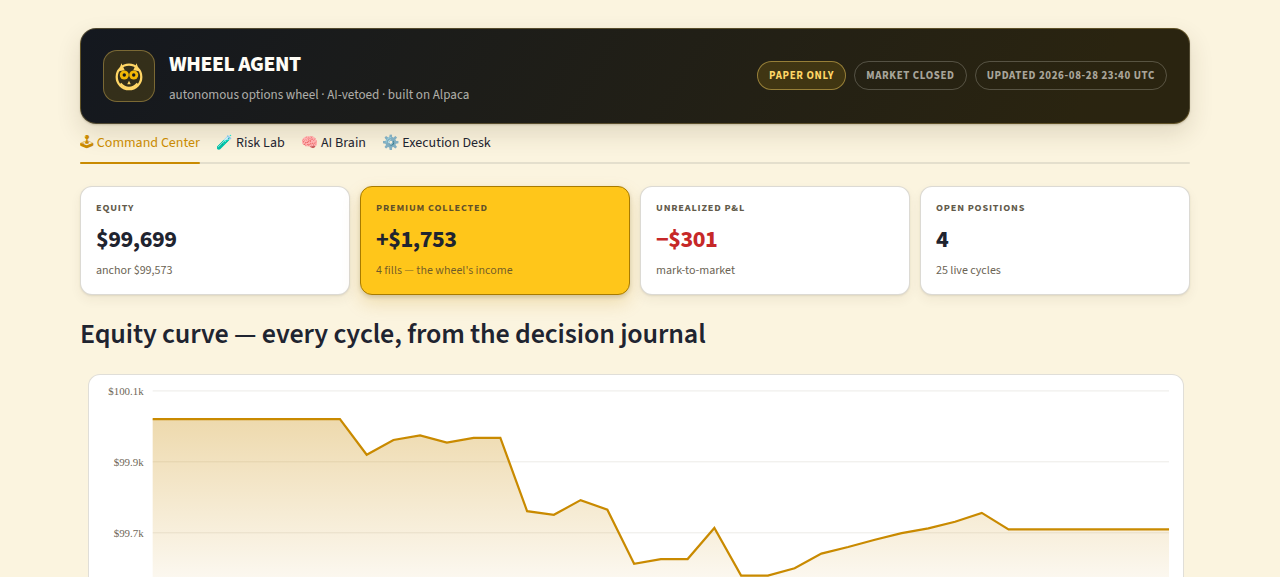
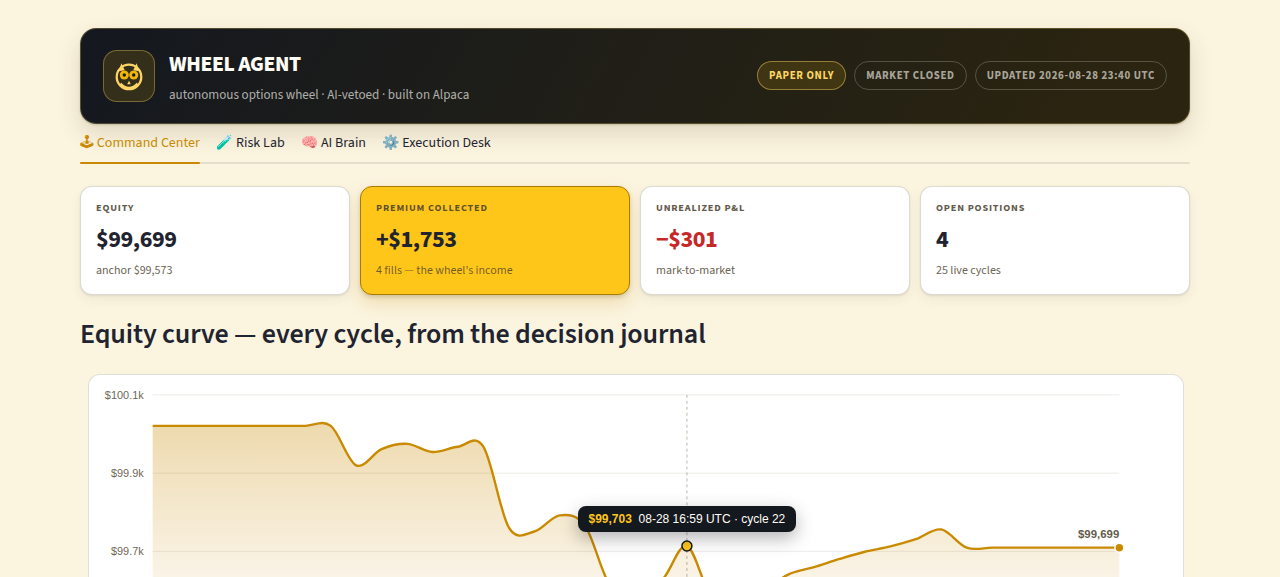
Interactive equity chart: smooth bezier, hover crosshair, UTC time axis
Owner feedback: chart was stiff, no hover, no x labels. Now: Catmull-Rom
smoothed gold curve, 5 UTC time ticks on the x axis (first with date),
hover crosshair + live tooltip ($equity, date, time, cycle #), last-point
marker with value, draw-in animation. Verified end-to-end with a synthetic
mousemove event: tooltip shows, 38 bezier segments, 5 time labels.

diff --git a/agent/dashboard/app.py b/agent/dashboard/app.py
@@ -173,9 +173,27 @@ def row(html):
     st.markdown(f'<div class="wa-row">{html}</div>', unsafe_allow_html=True)
 
 
-def sparkline_svg(entries, w=1100, h=250, pad_l=64, pad_r=14, pad_t=16, pad_b=20):
-    """Server-rendered equity curve — pure SVG, no charting library. Entries:
-    list of {ts, equity}. Deterministic, brand-styled, hover tooltips native."""
+def _smooth_path(pts):
+    """Catmull-Rom to cubic bezier — gentle curves, no stiff segments."""
+    if len(pts) < 3:
+        return "M" + " L".join(f"{x:.1f},{y:.1f}" for x, y in pts)
+    d = f"M{pts[0][0]:.1f},{pts[0][1]:.1f}"
+    for i in range(len(pts) - 1):
+        p0 = pts[i - 1] if i > 0 else pts[0]
+        p1, p2 = pts[i], pts[i + 1]
+        p3 = pts[i + 2] if i + 2 < len(pts) else p2
+        c1 = (p1[0] + (p2[0] - p0[0]) / 6, p1[1] + (p2[1] - p0[1]) / 6)
+        c2 = (p2[0] - (p3[0] - p1[0]) / 6, p2[1] - (p3[1] - p1[1]) / 6)
+        d += f"C{c1[0]:.1f},{c1[1]:.1f} {c2[0]:.1f},{c2[1]:.1f} {p2[0]:.1f},{p2[1]:.1f}"
+    return d
+
+
+def sparkline_html(entries, w=1100, h=290, pad_l=64, pad_r=64,
+                   pad_t=20, pad_b=34):
+    """Interactive equity curve: smooth gold area+line, dollar y-labels, UTC
+    time x-labels, hover crosshair with live tooltip, draw-in animation.
+    Pure server-rendered SVG + vanilla JS inside the components iframe."""
+    import json as _json
     vals = [e["equity"] for e in entries]
     if len(vals) < 2:
         return None
@@ -186,10 +204,13 @@ def sparkline_svg(entries, w=1100, h=250, pad_l=64, pad_r=14, pad_t=16, pad_b=20
     lo, hi = lo - vpad, hi + vpad
     n = len(vals)
     xs = [pad_l + (w - pad_l - pad_r) * i / (n - 1) for i in range(n)]
-    ys = [pad_t + (h - pad_t - pad_b) * (1 - (v - lo) / (hi - lo)) for v in vals]
-    path = "M" + " L".join(f"{x:.1f},{y:.1f}" for x, y in zip(xs, ys))
-    area = (path + f" L{xs[-1]:.1f},{h - pad_b:.1f} "
+    ys = [pad_t + (h - pad_t - pad_b) * (1 - (v - lo) / (hi - lo))
+          for v in vals]
+    pts = list(zip(xs, ys))
+    line = _smooth_path(pts)
+    area = (line + f" L{xs[-1]:.1f},{h - pad_b:.1f} "
             f"L{xs[0]:.1f},{h - pad_b:.1f} Z")
+
     grid = []
     for k in range(4):
         v = lo + (hi - lo) * k / 3
@@ -199,21 +220,96 @@ def sparkline_svg(entries, w=1100, h=250, pad_l=64, pad_r=14, pad_t=16, pad_b=20
             f'stroke="rgba(63,50,15,0.10)"/>'
             f'<text x="{pad_l - 9}" y="{y + 4:.1f}" text-anchor="end" '
             f'font-size="11" fill="#6F6757">${v / 1000:.1f}k</text>')
-    dots = "".join(
-        f'<circle cx="{x:.1f}" cy="{y:.1f}" r="8" fill="transparent">'
-        f'<title>{str(e.get("ts", ""))[11:16]} UTC · ${v:,.0f}</title></circle>'
-        for x, y, v, e in zip(xs, ys, vals, entries))
+    for k in range(5):
+        i = round((n - 1) * k / 4)
+        x = xs[i]
+        ts = str(entries[i].get("ts", ""))
+        label = (ts[5:10] + " " + ts[11:16]) if k == 0 else ts[11:16]
+        grid.append(
+            f'<line x1="{x:.1f}" y1="{h - pad_b}" x2="{x:.1f}" '
+            f'y2="{h - pad_b + 5}" stroke="rgba(63,50,15,0.25)"/>'
+            f'<text x="{x:.1f}" y="{h - pad_b + 19}" text-anchor="middle" '
+            f'font-size="10.5" fill="#8A8272">{label}</text>')
+    grid.append(
+        f'<text x="{w - pad_r}" y="{h - pad_b + 19}" text-anchor="end" '
+        f'font-size="10" fill="#8A8272" opacity="0">UTC</text>')
+
+    pdata = _json.dumps([
+        {"x": round(x, 1), "y": round(y, 1),
+         "t": str(e.get("ts", ""))[11:16], "d": str(e.get("ts", ""))[5:10],
+         "v": round(v, 0)}
+        for x, y, v, e in zip(xs, ys, vals, entries)])
+
+    js = """
+<script>
+(function(){
+  var PTS = __PDATA__;
+  var W = __W__, H = __H__;
+  var svg = document.getElementById('waSpark');
+  var tip = document.getElementById('waTip');
+  var cross = document.getElementById('waCross');
+  var dot = document.getElementById('waDot');
+  svg.addEventListener('mousemove', function(ev){
+    var r = svg.getBoundingClientRect();
+    var vx = (ev.clientX - r.left) * (W / r.width);
+    var best = 0, bd = 1e12;
+    for (var i = 0; i < PTS.length; i++){
+      var d = Math.abs(PTS[i].x - vx);
+      if (d < bd){ bd = d; best = i; }
+    }
+    var p = PTS[best];
+    cross.setAttribute('x1', p.x); cross.setAttribute('x2', p.x);
+    cross.style.display = '';
+    dot.setAttribute('cx', p.x); dot.setAttribute('cy', p.y);
+    dot.style.display = '';
+    tip.style.display = 'block';
+    tip.innerHTML = '<b style="color:#FFC61A">$' + p.v.toLocaleString() +
+      '</b>&nbsp; ' + p.d + ' ' + p.t + ' UTC · cycle ' + (best + 1);
+    var px = r.left + p.x * (r.width / W);
+    var py = r.top + p.y * (r.height / H);
+    tip.style.left = Math.max(px - tip.offsetWidth / 2, 8) + 'px';
+    tip.style.top = (py - tip.offsetHeight - 14) + 'px';
+  });
+  svg.addEventListener('mouseleave', function(){
+    tip.style.display = 'none';
+    cross.style.display = 'none'; dot.style.display = 'none';
+  });
+})();
+</script>"""
+    js = js.replace("__PDATA__", pdata).replace("__W__", str(w)).replace("__H__", str(h))
+
     return (
-        f'<svg class="wa-spark" viewBox="0 0 {w} {h}" width="100%" '
-        f'style="display:block;background:#FFFFFF;border:1px solid '
-        f'rgba(63,50,15,0.16);border-radius:12px">'
-        f'<defs><linearGradient id="eqg" x1="0" y1="1" x2="0" y2="0">'
-        f'<stop offset="0" stop-color="rgba(201,138,0,0.02)"/>'
-        f'<stop offset="1" stop-color="rgba(201,138,0,0.32)"/>'
-        f'</linearGradient></defs>{"".join(grid)}'
-        f'<path d="{area}" fill="url(#eqg)"/>'
-        f'<path d="{path}" fill="none" stroke="#C98A00" stroke-width="2.2"/>'
-        f'{dots}</svg>')
+        '<div style="position:relative;font-family:Inter,-apple-system,sans-serif">'
+        f'<svg id="waSpark" viewBox="0 0 {w} {h}" width="100%" '
+        'style="display:block;cursor:crosshair;background:#FFFFFF;'
+        'border:1px solid rgba(63,50,15,0.16);border-radius:12px">'
+        '<defs><linearGradient id="eqg" x1="0" y1="1" x2="0" y2="0">'
+        '<stop offset="0" stop-color="rgba(201,138,0,0.02)"/>'
+        '<stop offset="1" stop-color="rgba(201,138,0,0.32)"/>'
+        '</linearGradient></defs>'
+        + "".join(grid)
+        + f'<path d="{area}" fill="url(#eqg)" style="animation:wafade .8s ease"/>'
+        f'<path d="{line}" fill="none" stroke="#C98A00" stroke-width="2.4" '
+        'class="wa-line"/>'
+        f'<circle cx="{xs[-1]:.1f}" cy="{ys[-1]:.1f}" r="4.5" fill="#C98A00" '
+        f'stroke="#FFFFFF" stroke-width="1.5"/>'
+        f'<text x="{xs[-1]:.1f}" y="{ys[-1] - 10:.1f}" text-anchor="end" '
+        f'font-size="11.5" font-weight="700" fill="#635B4B">'
+        f'${vals[-1]:,.0f}</text>'
+        '<line id="waCross" y1="' + str(pad_t) + '" y2="' + str(h - pad_b) +
+        '" stroke="rgba(63,50,15,0.35)" stroke-dasharray="3 3" style="display:none"/>'
+        '<circle id="waDot" r="5" fill="#FFC61A" stroke="#14181F" '
+        'stroke-width="1.5" style="display:none"/>'
+        '</svg>'
+        '<div id="waTip" style="position:fixed;display:none;pointer-events:none;'
+        'background:#14181F;color:#FFFDF6;font-size:12px;padding:6px 11px;'
+        'border-radius:8px;white-space:nowrap;box-shadow:0 6px 18px rgba(0,0,0,.3);'
+        'z-index:99"></div>'
+        '<style>@keyframes wafade{from{opacity:0}to{opacity:1}}'
+        '.wa-line{stroke-dasharray:4000;stroke-dashoffset:4000;'
+        'animation:wadraw 1.1s ease forwards}'
+        '@keyframes wadraw{to{stroke-dashoffset:0}}</style>'
+        + js + '</div>')
 
 
 def pill(text, cls=""):
@@ -285,14 +381,13 @@ with tabs[0]:
     st.subheader("Equity curve — every cycle, from the decision journal")
     entries = [e for e in DATA.get("equity_curve", [])
                if e.get("equity") is not None]
-    svg = sparkline_svg(entries)
-    if svg:
+    html = sparkline_html(entries)
+    if html:
         # components.html bypasses the markdown pipeline, which truncates
         # inline SVG (learned the hard way: DOM stopped after first </text>)
         import streamlit.components.v1 as components
-        components.html(svg, height=270, scrolling=False)
-        st.caption(f"{len(entries)} cycles · hover any point for time + equity "
-                   "· server-rendered SVG, no charting library")
+        components.html(html, height=320, scrolling=False)
+        st.caption(f"{len(entries)} cycles · hover the chart: crosshair + tooltip per cycle · server-rendered SVG, no charting library")
 
     # regime ribbon
     hist = DATA.get("regime_history", [])
